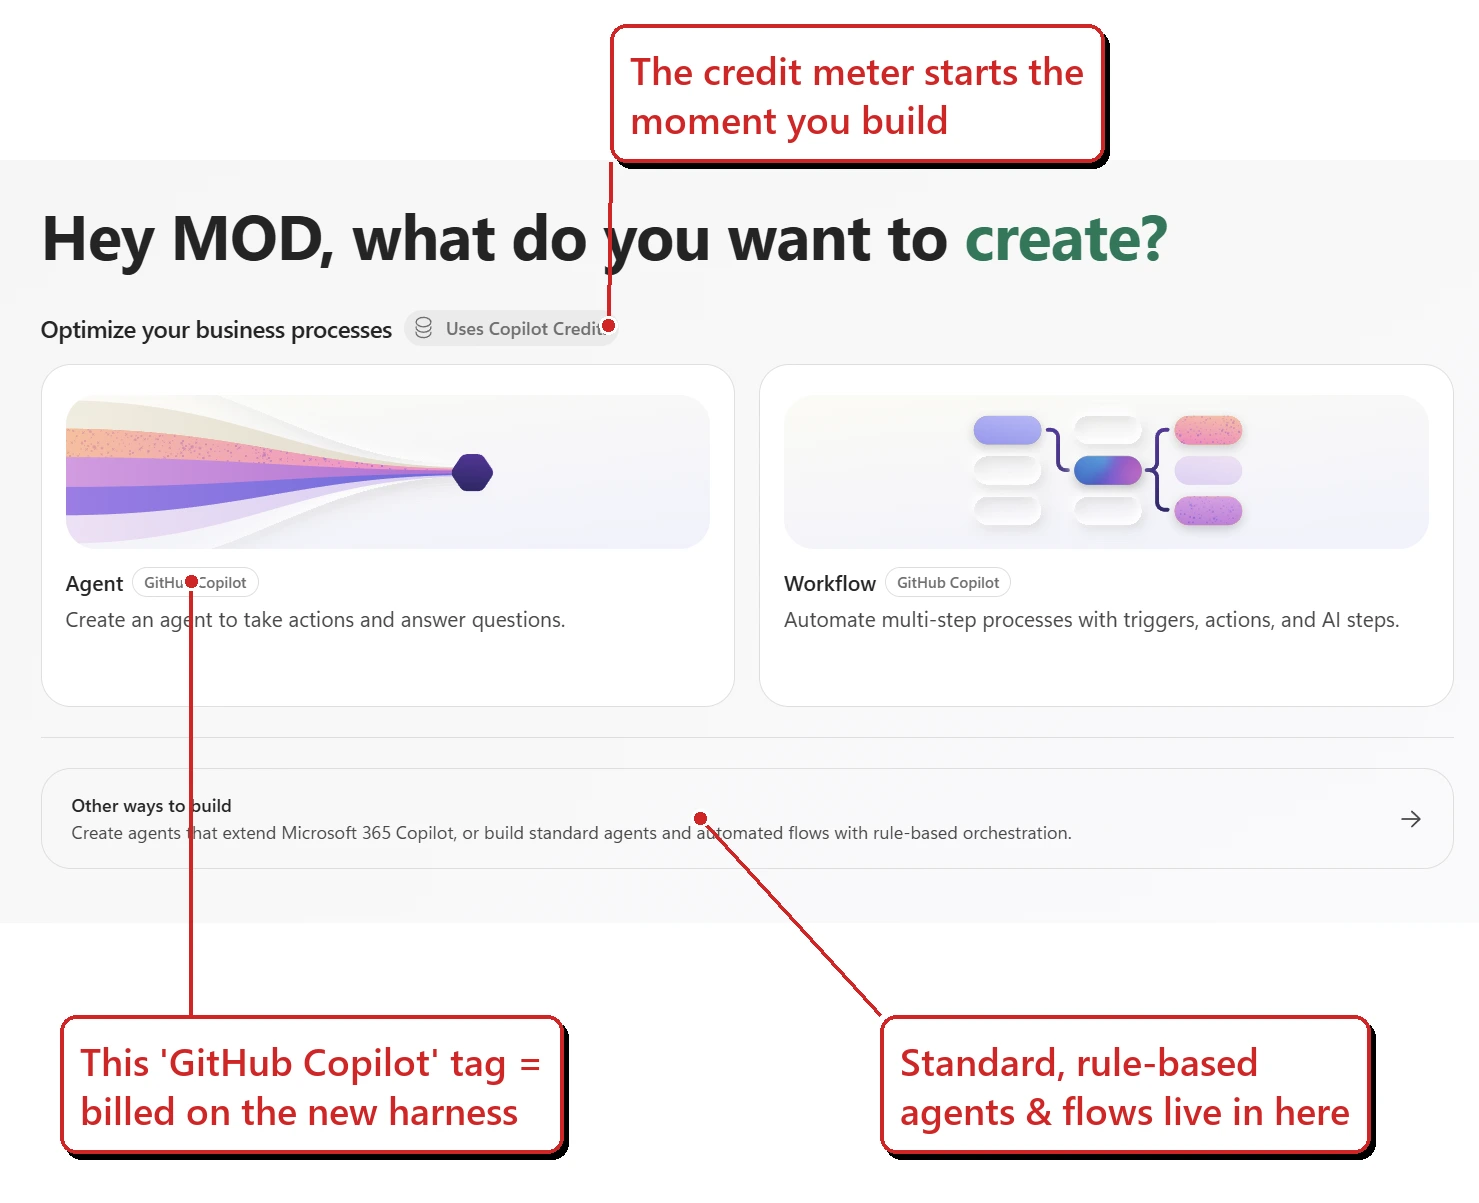
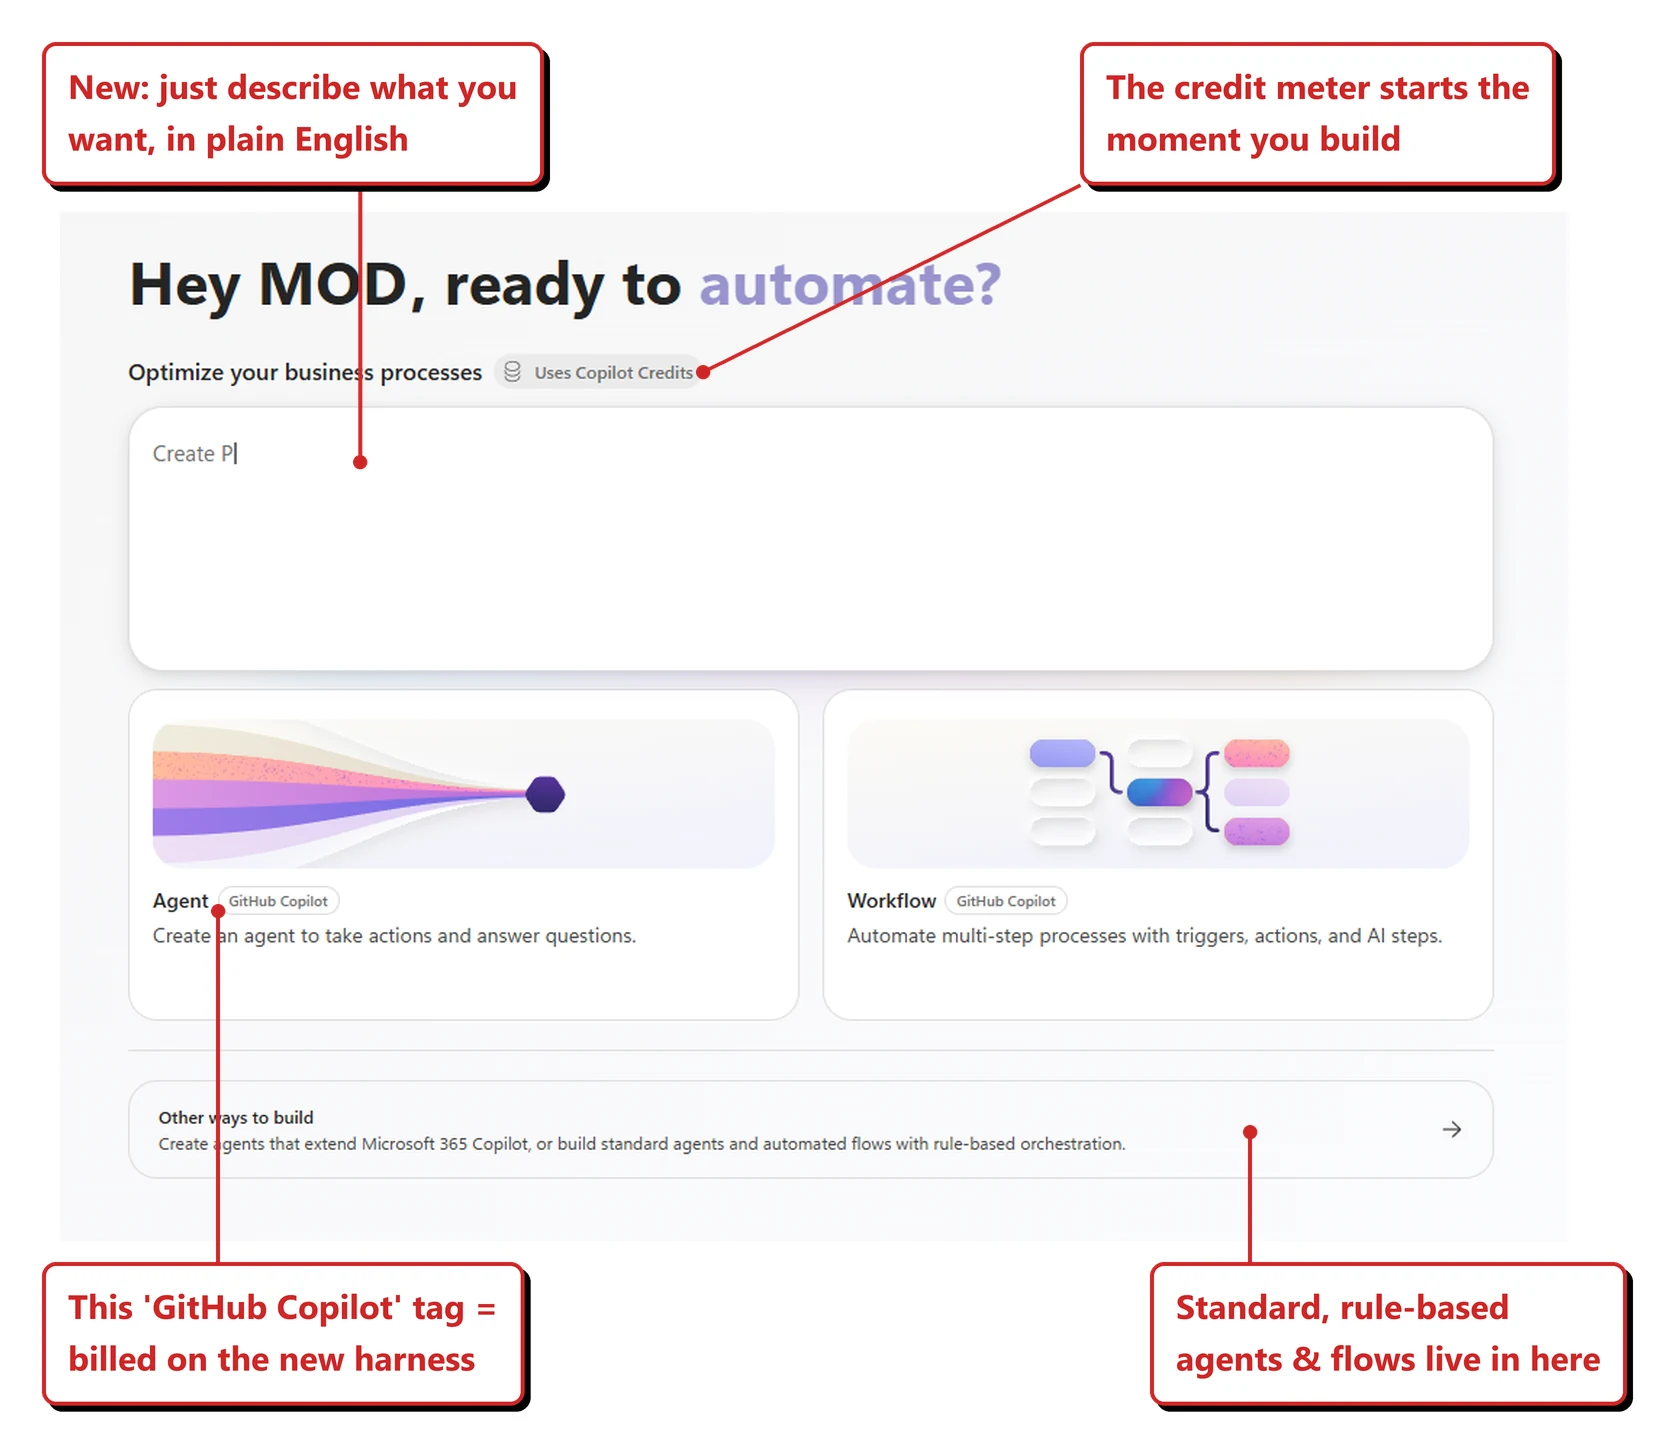
blog(harness): refresh create-screen figure with natural-language route
The published 02-choose-a-harness.webp predated the natural-language
create box, which is now on the Copilot Studio home surface alongside the
Agent and Workflow cards. Recaptured, re-annotated and replaced rather
than added, since the old figure showed the same screen minus the box.

- Replace 02-choose-a-harness.webp (1668x1446, 94.4 KB). Three original
  callouts preserved verbatim; fourth added for the NL box. Leader tips
  moved onto element edges so no UI label is masked.
- Update alt text to describe what is actually pictured (Rule #8).
- Add a short passage on the two ways to start - describe it in plain
  English, or paste in instructions written elsewhere - and note that
  neither route yields a standard, rule-based agent.
- Commit the annotation tool and its declarative spec under
  scripts/screenshot-sources/ (outside static/, so sources are tracked
  in git but never deployed).

Copilot-Session: d0c1b4e5-8665-4349-88ad-9d67f0dbcae8

Changed region(s): [[0.0311, 0.0, 0.9642, 0.9842], [0.5909, 0.7689, 0.9953, 0.9842], [0.3732, 0.8612, 0.4043, 0.9534]]

diff --git a/scripts/annotate-screenshot.py b/scripts/annotate-screenshot.py
@@ -1,0 +1,309 @@
+"""
+Blog screenshot annotator — "harness house style".
+
+Reverse-engineered pixel-exact from the GitHub Copilot harness post
+(static/images/blog/copilot-studio-harness/), which is the reference
+implementation of this style. Measured values:
+
+    border / text / leader red .... #CF2626  (207, 38, 38)
+    box fill ...................... #FFFFFF
+    border width .................. 4 px
+    corner radius ................. 14 px
+    shadow ........................ solid black, hard edge, offset +6,+6
+    neutral label ink ............. #182439  (24, 36, 57)
+    fonts ......................... Segoe UI Bold (callouts/labels)
+                                    Ink Free    (optional handwriting)
+
+Everything is drawn on a 3x supersampled RGBA overlay and LANCZOS-downscaled
+before compositing, which is what gives the smooth antialiased edges.
+
+Usage
+-----
+    from annotate_screenshot import Shot
+
+    s = Shot(r"...\raw\01-thing.png")
+    s.pad(top=170, right=430)                     # margin for callouts
+    s.callout("The credit meter starts\nthe moment you build",
+              at=(620, 20), target=(610, 330))    # box top-left, arrow tip
+    s.ring((460, 380, 680, 425))                  # red ellipse highlight
+    s.inset(r"...\raw\tenant.png", at=(24, 1058),  # real-tenant card over
+            crop=(10, 128, 366, 400))             #   an official background
+    s.label("New experience", (500, 45))          # neutral caption
+    s.mask((40, 900, 300, 925))                   # paint out PII
+    s.save(r"...\static\images\blog\FOLDER\01-thing.webp")
+
+CLI (declarative — preferred, keeps annotations reviewable in git):
+    python annotate-screenshot.py spec.json
+"""
+
+from __future__ import annotations
+
+import json
+import os
+import sys
+
+from PIL import Image, ImageDraw, ImageFont
+
+# ---------------------------------------------------------------- palette ---
+RED = (207, 38, 38)
+WHITE = (255, 255, 255)
+BLACK = (0, 0, 0)
+INK_NAVY = (24, 36, 57)
+
+BORDER_W = 4
+RADIUS = 14
+SHADOW_OFF = 6
+LEADER_W = 4
+DOT_R = 7
+
+SS = 3  # supersample factor
+
+_FONTS = {
+    "bold": r"C:\Windows\Fonts\segoeuib.ttf",
+    "semibold": r"C:\Windows\Fonts\seguisb.ttf",
+    "regular": r"C:\Windows\Fonts\segoeui.ttf",
+    "hand": r"C:\Windows\Fonts\Inkfree.ttf",
+}
+
+
+def _font(name: str, size: int) -> ImageFont.FreeTypeFont:
+    return ImageFont.truetype(_FONTS[name], size)
+
+
+def _wrap(draw, text, font, max_w):
+    """Wrap on spaces, honouring explicit \n."""
+    out = []
+    for para in text.split("\n"):
+        words, line = para.split(), ""
+        for w in words:
+            trial = f"{line} {w}".strip()
+            if draw.textlength(trial, font=font) <= max_w or not line:
+                line = trial
+            else:
+                out.append(line)
+                line = w
+        out.append(line)
+    return out
+
+
+class Shot:
+    def __init__(self, src: str | None = None, scale: float = 1.0,
+                 canvas=None, fill=WHITE):
+        if src:
+            im = Image.open(src).convert("RGB")
+            if scale != 1.0:
+                im = im.resize(
+                    (int(im.width * scale), int(im.height * scale)), Image.LANCZOS
+                )
+        else:
+            if not canvas:
+                raise ValueError("Shot needs either src= or canvas=[w, h]")
+            im = Image.new("RGB", (int(canvas[0]), int(canvas[1])), fill)
+        self.base = im
+        self._new_overlay()
+
+    # -- internals ---------------------------------------------------------
+    def _new_overlay(self):
+        self.ov = Image.new("RGBA", (self.base.width * SS, self.base.height * SS), (0, 0, 0, 0))
+        self.d = ImageDraw.Draw(self.ov)
+
+    def _flatten(self):
+        """Bake the overlay into the base so geometry ops (pad) stay correct."""
+        ov = self.ov.resize(self.base.size, Image.LANCZOS)
+        self.base = Image.alpha_composite(self.base.convert("RGBA"), ov).convert("RGB")
+        self._new_overlay()
+
+    @staticmethod
+    def _s(v):
+        return int(round(v * SS))
+
+    # -- canvas ------------------------------------------------------------
+    def pad(self, left=0, top=0, right=0, bottom=0, fill="white"):
+        """Grow the canvas so callouts can live in clean margin, not over the UI."""
+        self._flatten()
+        if fill == "auto":
+            fill = self.base.getpixel((1, 1))
+        elif fill == "white":
+            fill = WHITE
+        canvas = Image.new(
+            "RGB",
+            (self.base.width + left + right, self.base.height + top + bottom),
+            fill,
+        )
+        canvas.paste(self.base, (left, top))
+        self.base = canvas
+        self._new_overlay()
+        return self
+
+    def mask(self, bbox, fill="auto"):
+        """Paint out PII / distractions. bbox = (x0, y0, x1, y1)."""
+        self._flatten()
+        if fill == "auto":
+            fill = self.base.getpixel((max(bbox[0] - 3, 0), max(bbox[1] - 3, 0)))
+        ImageDraw.Draw(self.base).rectangle(bbox, fill=fill)
+        return self
+
+    def inset(
+        self,
+        src,
+        at,
+        scale=1.0,
+        crop=None,
+        border=RED,
+        border_w=3,
+        shadow=True,
+    ):
+        """Composite a second screenshot in as a foreground card.
+
+        Used to pair an official Microsoft image (background, the result) with
+        a real-tenant capture (foreground, the invocation) in one figure.
+        `crop` = (x0, y0, x1, y1) applied to the source before scaling.
+        """
+        self._flatten()
+        im = Image.open(src).convert("RGB")
+        if crop:
+            im = im.crop(tuple(crop))
+        if scale != 1.0:
+            im = im.resize(
+                (int(im.width * scale), int(im.height * scale)), Image.LANCZOS
+            )
+        x, y = int(at[0]), int(at[1])
+        d = ImageDraw.Draw(self.base)
+        if shadow:
+            d.rectangle(
+                [x + SHADOW_OFF, y + SHADOW_OFF,
+                 x + im.width + SHADOW_OFF, y + im.height + SHADOW_OFF],
+                fill=BLACK,
+            )
+        self.base.paste(im, (x, y))
+        if border:
+            d.rectangle(
+                [x, y, x + im.width - 1, y + im.height - 1],
+                outline=border, width=border_w,
+            )
+        print(f"    inset {os.path.basename(src)} -> ({x},{y}) {im.width}x{im.height}")
+        return self
+
+    # -- annotations -------------------------------------------------------
+    def callout(
+        self,
+        text,
+        at,
+        target=None,
+        size=34,
+        max_width=560,
+        pad_x=26,
+        pad_y=20,
+        font="bold",
+        color=RED,
+    ):
+        """White rounded box, red border, hard black shadow, red bold text.
+        `at`     = top-left of the box in final-image coords
+        `target` = optional (x, y) the leader line points at (red dot at tip)
+        """
+        f = _font(font, self._s(size))
+        lines = _wrap(self.d, text, f, self._s(max_width))
+        asc, desc = f.getmetrics()
+        lh = asc + desc + self._s(6)
+
+        tw = max(self.d.textlength(ln, font=f) for ln in lines)
+        bw = tw + self._s(pad_x) * 2
+        bh = lh * len(lines) + self._s(pad_y) * 2
+
+        x0, y0 = self._s(at[0]), self._s(at[1])
+        x1, y1 = x0 + bw, y0 + bh
+        r = self._s(RADIUS)
+
+        # leader first, so the box covers its tail
+        if target:
+            tx, ty = self._s(target[0]), self._s(target[1])
+            ax = min(max(tx, x0 + r), x1 - r)
+            ay = min(max(ty, y0 + r), y1 - r)
+            sx = x0 if tx < x0 else (x1 if tx > x1 else ax)
+            sy = y0 if ty < y0 else (y1 if ty > y1 else ay)
+            self.d.line([(sx, sy), (tx, ty)], fill=color, width=self._s(LEADER_W))
+            d = self._s(DOT_R)
+            self.d.ellipse([tx - d, ty - d, tx + d, ty + d], fill=color)
+
+        off = self._s(SHADOW_OFF)
+        self.d.rounded_rectangle(
+            [x0 + off, y0 + off, x1 + off, y1 + off], radius=r, fill=BLACK
+        )
+        self.d.rounded_rectangle(
+            [x0, y0, x1, y1], radius=r, fill=WHITE,
+            outline=color, width=self._s(BORDER_W),
+        )
+
+        ty0 = y0 + self._s(pad_y)
+        for i, ln in enumerate(lines):
+            self.d.text((x0 + self._s(pad_x), ty0 + i * lh), ln, font=f, fill=color)
+        return self
+
+    def ring(self, bbox, color=RED, width=BORDER_W):
+        """Red ellipse around a UI element (the 'circle the new thing' move)."""
+        self.d.ellipse([self._s(v) for v in bbox], outline=color, width=self._s(width))
+        return self
+
+    def box(self, bbox, color=RED, width=3, radius=8):
+        """Legacy style — rounded rect around a single key element."""
+        self.d.rounded_rectangle(
+            [self._s(v) for v in bbox],
+            radius=self._s(radius), outline=color, width=self._s(width),
+        )
+        return self
+
+    def arrow(self, start, end, color=RED, width=LEADER_W):
+        """Bare leader line + dot, no box."""
+        self.d.line(
+            [self._s(start[0]), self._s(start[1]), self._s(end[0]), self._s(end[1])],
+            fill=color, width=self._s(width),
+        )
+        d = self._s(DOT_R)
+        ex, ey = self._s(end[0]), self._s(end[1])
+        self.d.ellipse([ex - d, ey - d, ex + d, ey + d], fill=color)
+        return self
+
+    def label(self, text, at, color=INK_NAVY, size=30, font="bold", center_on=None):
+        """Caption text with no box — navy for neutral, RED for 'this is the new bit'."""
+        f = _font(font, self._s(size))
+        x, y = self._s(at[0]), self._s(at[1])
+        if center_on is not None:
+            x = self._s(center_on) - self.d.textlength(text, font=f) / 2
+        self.d.multiline_text((x, y), text, font=f, fill=color, spacing=self._s(6))
+        return self
+
+    # -- output ------------------------------------------------------------
+    def save(self, dest, quality=88):
+        self._flatten()
+        os.makedirs(os.path.dirname(dest), exist_ok=True)
+        ext = os.path.splitext(dest)[1].lower()
+        if ext == ".webp":
+            self.base.save(dest, "WEBP", quality=quality, method=6)
+        else:
+            self.base.save(dest)
+        print(f"  saved {dest}  {self.base.width}x{self.base.height}  "
+              f"{os.path.getsize(dest)/1024:.1f} KB")
+        return dest
+
+
+# ------------------------------------------------------------------- CLI ---
+def run_spec(spec_path: str):
+    """Declarative mode. See annotate-spec.example.json."""
+    with open(spec_path, encoding="utf-8") as fh:
+        spec = json.load(fh)
+    for item in spec["images"]:
+        print(f"[{item.get('src') or 'blank canvas ' + str(item.get('canvas'))}]")
+        s = Shot(item.get("src"), scale=item.get("scale", 1.0),
+                 canvas=item.get("canvas"))
+        for op in item.get("ops", []):
+            # keys starting with "_" are spec comments, not arguments
+            op = {k: v for k, v in op.items() if not k.startswith("_")}
+            kind = op.pop("kind")
+            getattr(s, kind)(**op)
+        s.save(item["dest"], quality=item.get("quality", 88))
+
+
+if __name__ == "__main__":
+    if len(sys.argv) != 2:
+        sys.exit(__doc__)
+    run_spec(sys.argv[1])

diff --git a/content/blog/copilot-studio-github-copilot-harness-explained.md b/content/blog/copilot-studio-github-copilot-harness-explained.md
@@ -106,9 +106,13 @@ Here's the plain-English comparison, straight from Microsoft's *Choose a harness
 
 Two rows there are worth pausing on. **Publishing reach** is the one people discover too late: the Copilot chat harness publishes to internal teams only, so if the agent ever needs to face customers, that harness is out — regardless of how well it fits otherwise. And the examples row is the fastest way I've found to place a new scenario: if it sounds like accounts payable, it's the GitHub Copilot harness; if it sounds like a help desk, standard; if it sounds like "answer from our SharePoint", Copilot chat.
 
-<p><img src="/images/blog/copilot-studio-harness/02-choose-a-harness.webp" alt="The Copilot Studio create screen showing Agent and Workflow cards both tagged 'GitHub Copilot', a 'Uses Copilot Credits' pill, and an 'Other ways to build' bar for standard agents and flows with rule-based orchestration." loading="lazy" style="max-width:100%;border:1px solid var(--border);border-radius:var(--radius-md);margin:var(--space-4) 0;" /></p>
+<p><img src="/images/blog/copilot-studio-harness/02-choose-a-harness.webp" alt="The Copilot Studio create screen: a natural-language box at the top for describing what you want to build, Agent and Workflow cards both tagged 'GitHub Copilot', a 'Uses Copilot Credits' pill, and an 'Other ways to build' bar for standard agents and flows with rule-based orchestration." loading="lazy" style="max-width:100%;border:1px solid var(--border);border-radius:var(--radius-md);margin:var(--space-4) 0;" /></p>
 
-*The **"GitHub Copilot"** tags and the "Uses Copilot Credits" pill are the tell — this is the metered harness. "Other ways to build" at the bottom is where the standard, rule-based agents and flows still live. (Lab tenant.)*
+*The **"GitHub Copilot"** tags and the "Uses Copilot Credits" pill are the tell — this is the metered harness. The box at the top is the newer describe-it-in-plain-English route, and "Other ways to build" at the bottom is where the standard, rule-based agents and flows still live. (Lab tenant, recaptured 24 August 2026.)*
+
+Two ways in from this screen. Describe what you want in the box at the top and Copilot Studio drafts the agent or workflow for you — plain English, nothing to wire up first. Or, if you've already written your instructions somewhere else, paste them straight into the same box. Either route lands you on the same harness; it only changes how you start. What neither one gives you is a standard, rule-based agent — that's still behind **"Other ways to build"** at the bottom.
+
+{{< margin >}}The box drafts an agent. It doesn't finish one. You still read what it wrote and fix the bits it guessed — that part hasn't been automated away.{{< /margin >}}
 
 The one-line summary I keep in my head: standard = follows your rules, GitHub Copilot = works out the steps, Copilot chat = grounds Microsoft 365 Copilot in your knowledge.
 
